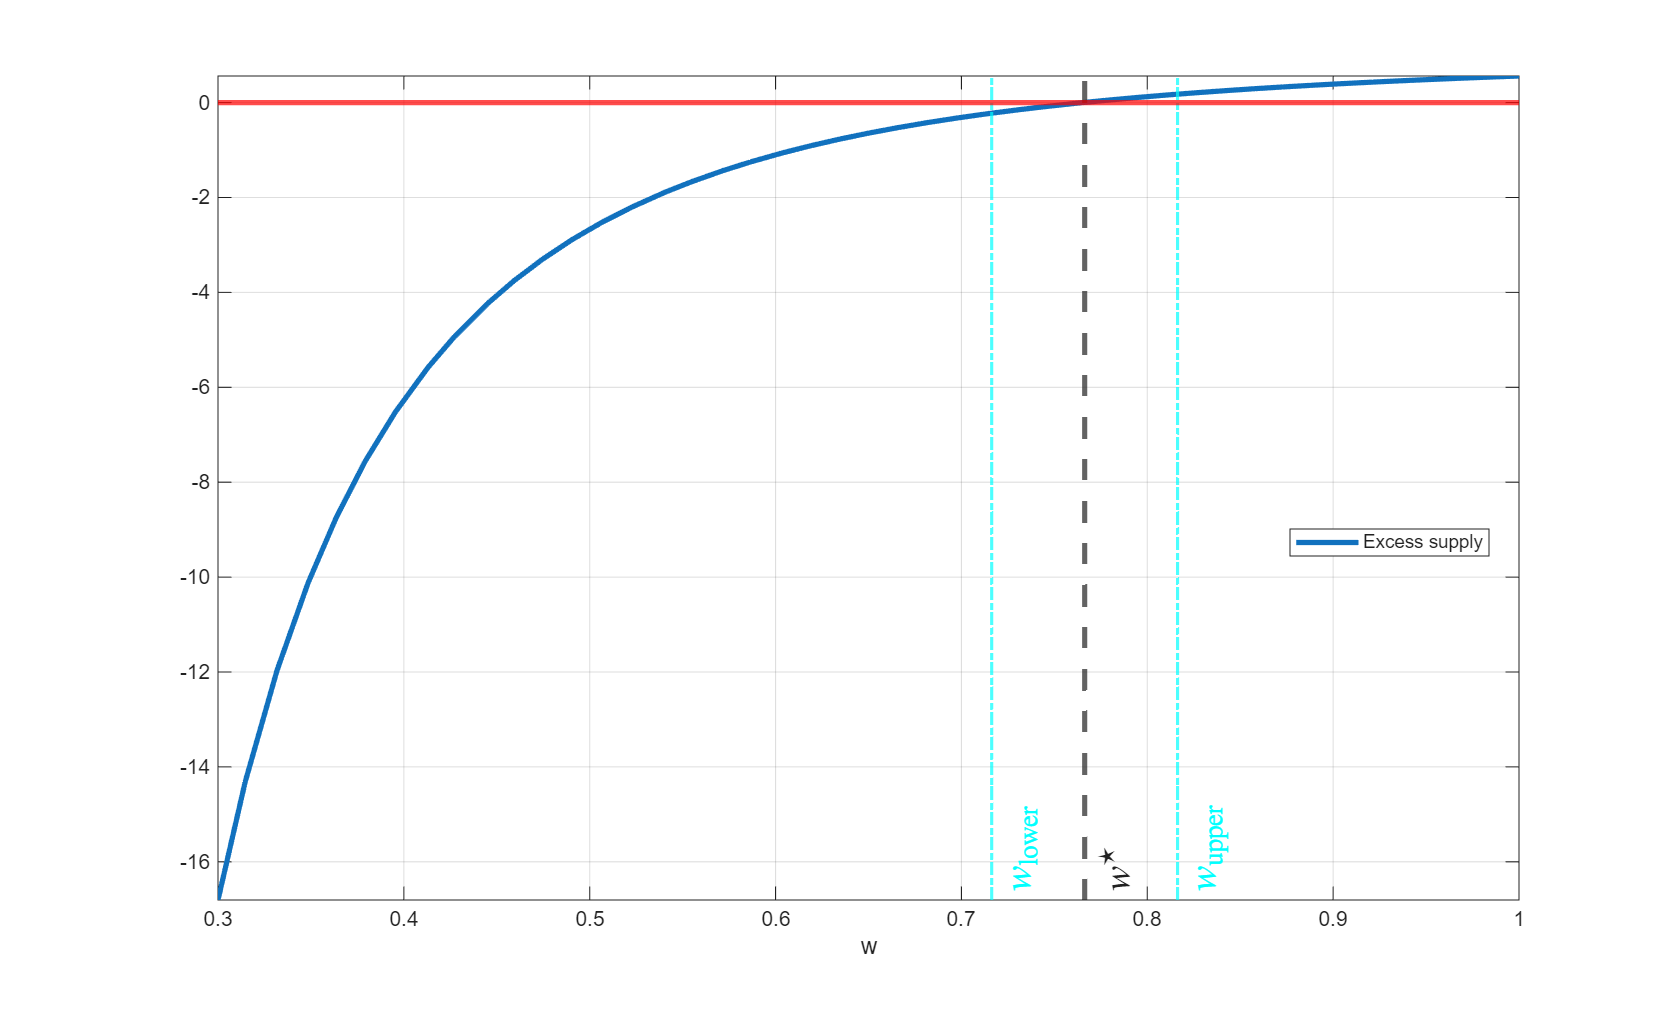
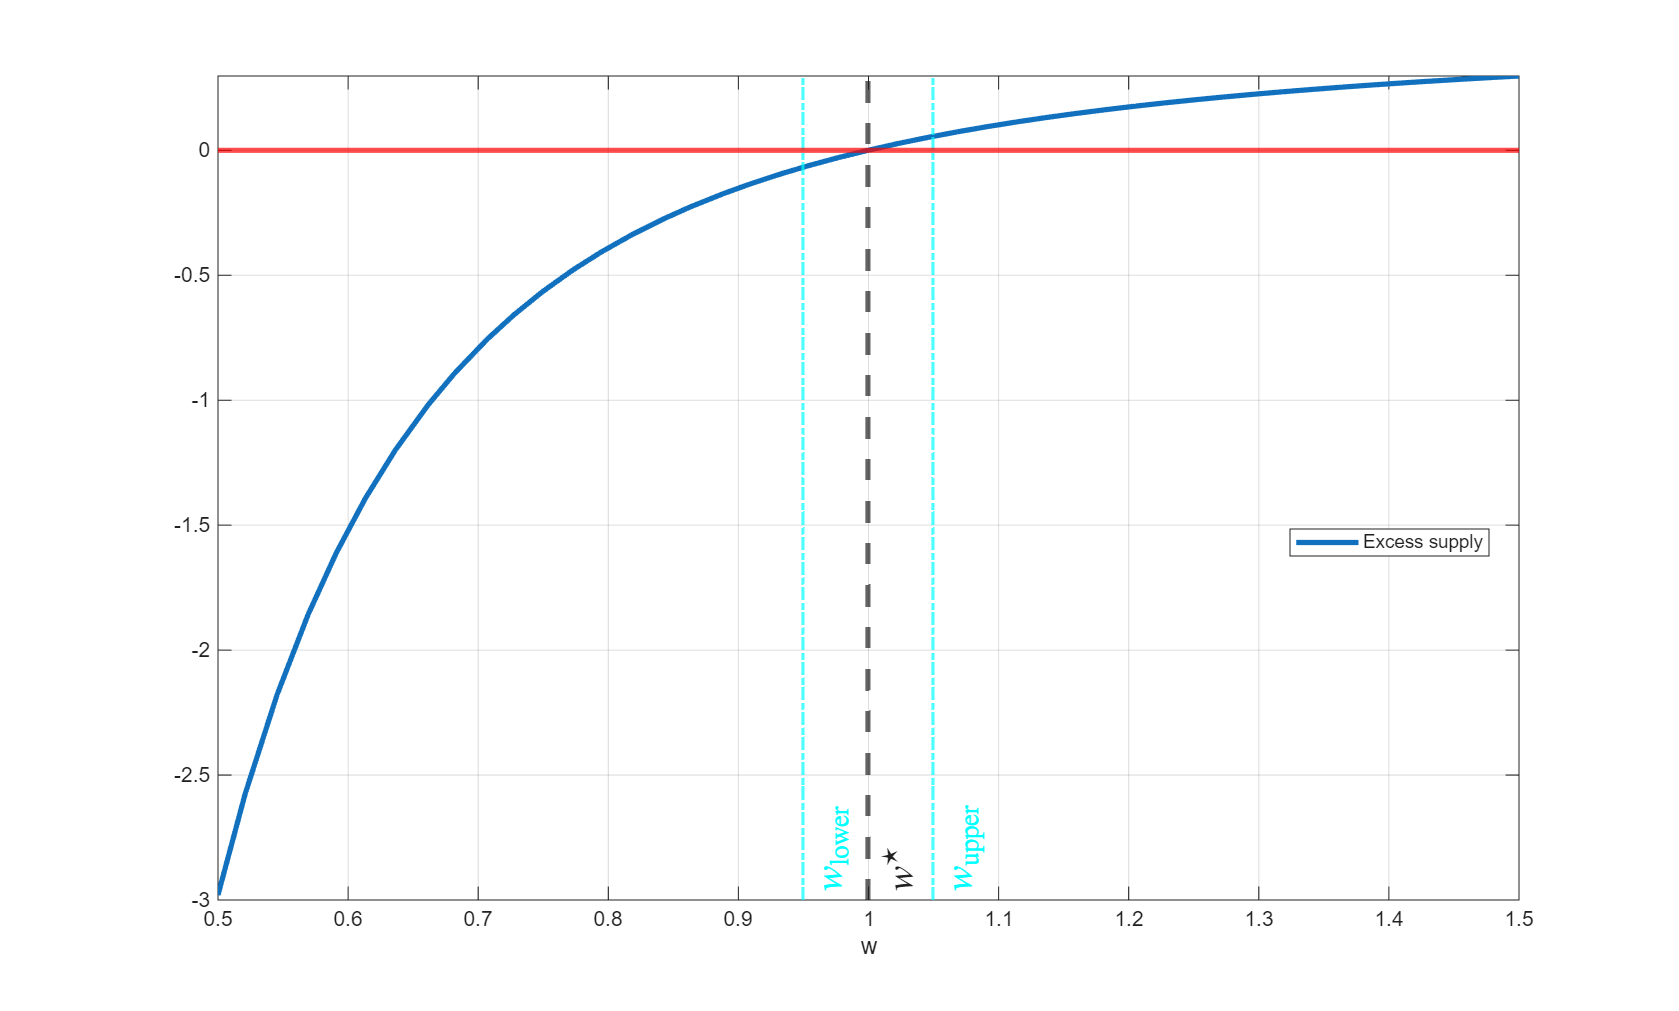
Housekeeping update

diff --git a/assignment_1/_plotting/AggregateLabourPlots.m b/assignment_1/_plotting/AggregateLabourPlots.m
@@ -16,7 +16,7 @@ ExcessSupply        = @(w) Supply(w) - Demand(w);
 
 % Plot
 figure(2); 
-fplot(ExcessSupply, [0.3 1], 'LineWidth', 2.5);
+fplot(ExcessSupply, [0.5 1.5], 'LineWidth', 2.5);
 xline(w_star,'--', '$w^\star$','interpreter','latex', 'LabelVerticalAlignment','bottom','LineWidth',2.5,'FontSize',18);
 xline(w_star-0.05,'-.', '$w_{\text{lower}}$','interpreter','latex', 'LabelVerticalAlignment','bottom','LineWidth',1.5, 'Color','c','FontSize',18);
 xline(w_star+0.05,'-.', '$w_{\text{upper}}$','interpreter','latex', 'LabelVerticalAlignment','bottom','LineWidth',1.5, 'Color','c','FontSize',18);
@@ -25,5 +25,15 @@ grid on;
 xlabel('w');
 %title('Bisection: Excess supply of labour (aggregate)','fontsize',18);
 legend('Excess supply', 'Location', 'best');
-saveas(gcf,'_figures/excess_supply_bisection.png');
+saveas(gcf,'_figures/ExcessSupplyBisection.png');
 
+% Aggregate demand and supply
+figure(3); 
+fplot({Supply, Demand}, [0.8 1.5], 'LineWidth', 2.5);
+xline(w_star,'--', '$w^\star$','interpreter','latex', 'LabelVerticalAlignment','bottom','LineWidth',2.5,'FontSize',18);
+grid on;
+xlabel('w');
+ylabel('$E[z n(z)]$','interpreter','latex');
+%title('Bisection: Excess supply of labour (aggregate)','fontsize',18);
+legend({'Supply', 'Demand'}, 'Location', 'best');
+saveas(gcf,'_figures/demand_supply.png');

diff --git a/assignment_1/_scripts/ComparativeStaticsA.m b/assignment_1/_scripts/ComparativeStaticsA.m
@@ -1,0 +1,19 @@
+% Comparative statics (A)
+
+% Original
+[w_star, ~]    = fnSolvePrices(pTau,pEta,pChi,pBeta,pSigmaz,pAlpha,pA,pa,pr,pb,pMaxIter,pStepSize);
+
+% Define & discretise the function
+Wage              = @(A) arrayfun(@(A_scalar) fnSolvePrices(pTau,pEta,pChi,pBeta,pSigmaz,pAlpha,A_scalar,pa,pr,pb,pMaxIter,pStepSize),A);
+
+
+% Plots
+figure(5); 
+fplot(Wage, [0.5 1.5], 'LineWidth', 2.5);
+yline(w_star,'--', '$w^\star$','interpreter','latex', 'LabelVerticalAlignment','bottom','LineWidth',2.5,'FontSize',18);
+grid on;
+xlabel('A');
+xlabel('w');
+%title('Bisection: Excess supply of labour (aggregate)','fontsize',18);
+%legend('Excess supply', 'Location', 'best');
+%saveas(gcf,'_figures/excess_supply_bisection.png');

diff --git a/assignment_1/_functions/fnSolvePrices.m b/assignment_1/_functions/fnSolvePrices.m
@@ -1,7 +1,7 @@
 function [w, T] = fnSolvePrices(pTau,pEta,pChi,pBeta,pSigmaz,pAlpha,pA,pa,pr,pb,pMaxIter,pStepSize)
     % Initialise
-    iWage           = 0.6751;
-    iT              = 0.0478;
+    iWage           = 0.9972;
+    iT              = 0.0462;
     iIteration      = 0;
     iConvergence    = false;
 
@@ -17,7 +17,7 @@ function [w, T] = fnSolvePrices(pTau,pEta,pChi,pBeta,pSigmaz,pAlpha,pA,pa,pr,pb,
 
         % Update error
         iDeviation          = [iWage - iWageNext; iT - iTNext];
-        iError              = iDeviation' * iDeviation;
+        iError              = sum(abs(iDeviation));
 
         % Convergence criterion
         if iError < 1e-5

diff --git a/assignment_1/_scripts/LoadParameters.m b/assignment_1/_scripts/LoadParameters.m
@@ -12,18 +12,14 @@ pr              = 0.04;
 pBeta           = 0.96;
 
 % Placeholder parameters
-% pb              = 0.0633;
-% pEta            = 6.4986;
-% pSigmaz         = 0.3136;
-% pChi            = 0.7744;
-
-pSigmaz         = pSigmazBas;
-pEta            = pEtaBas;
-pb              = pbBas;
-pC
+load('_results\ParametersPS.mat');
+pSigmaz         = pSigmazPS;
+pEta            = pEtaPS;
+pb              = pbPS;
+pChi            = pChiPS;
 
 % Solving iterations parameters
-pStepSize       = 0.1;
+pStepSize       = 0.9;
 pMaxIter        = 2000;
 pMaxWage        = 10;
 

diff --git a/assignment_1/Main.m b/assignment_1/Main.m
@@ -10,13 +10,13 @@ close all;
 addpath _functions/
 addpath _scripts/
 
-%% 2. Solve the model
+%% 2. Calibrate the model
 
 % Load parameters
-parameters;
+LoadParameters;
 
-% Calibrate the model (standard)
-calibrate;
+% Calibrate the model
+%calibrate;
+%calibrate_pattern_search;
 
-% Calibrate the model (alternative options)
-calibrate_pattern_search;
+%% 3. Analysis
